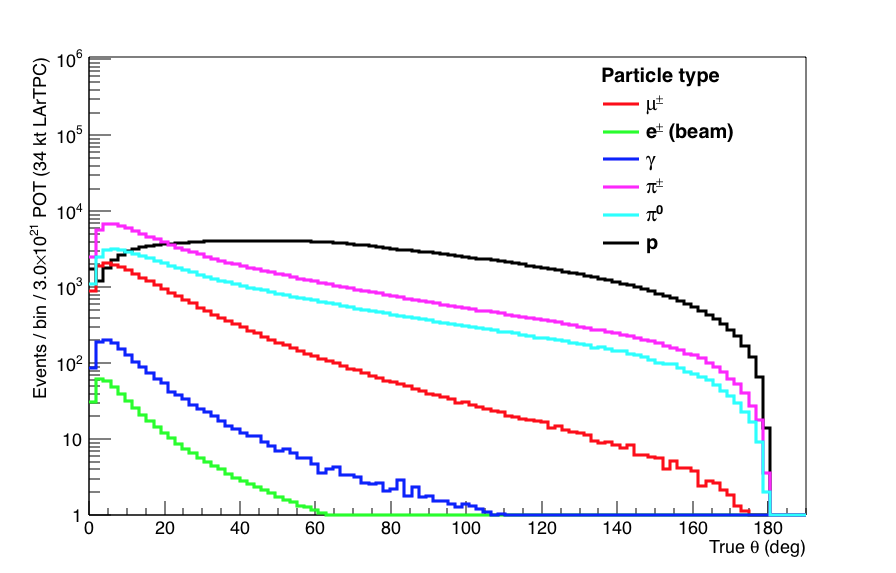
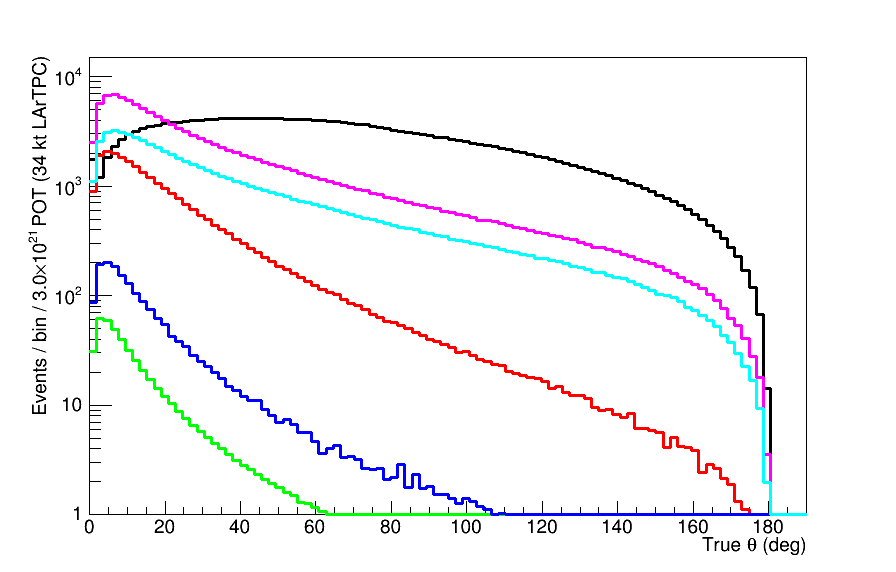
Modified plots for the angles and momenta of the outgoing particles.  Increased size of the plots.

diff --git a/detbeamtest.tex b/detbeamtest.tex
@@ -109,8 +109,8 @@ The DUNE experiment will run beam in both neutrino and anti-neutrino
 configurations. These beams will be composed  mainly of muon neutrinos (anti-neutrinos) as well as electron neutrinos (anti-neutrinos). In Fig.~\ref{fig:particle_momenta} the distributions of momenta and angles of particles created in neutrino interactions from simulated beam fluxes are shown. The rate on the particles are calculated for the 34kton far detector and  are combined from both neutrino and anti-neutrino beams. In addition the electron rates from charged current interactions for muon neutrinos oscillated to electron neutrinos are shown. 
 \begin{figure}[h!]
   \centering
-\includegraphics[width=0.49\textwidth,height=5.0cm]{figures/True_Momenta_per_Particle_9_2_1_0_log}
-\includegraphics[width=0.49\textwidth,height=5.0cm]{figures/True_theta_per_Particle_9_2_1_0_lin}
+\includegraphics[width=0.79\textwidth,height=8.0cm]{figures/True_Momenta_per_Particle_9_2_1_0_log} \\
+\includegraphics[width=0.79\textwidth,height=8.0cm]{figures/True_theta_per_Particle_9_2_1_0_lin}
   \caption{Particle momenta (left) and angular (right) distributions for particles produced in neutrino interactions 
 from $\nu_e$, $\nu_\mu$, $\bar \nu_e$ and $\bar \nu_\mu$ at the far detector location.
 %{\color{red}  combine e+e-, improve information content (y-axis, change colors, etc )
